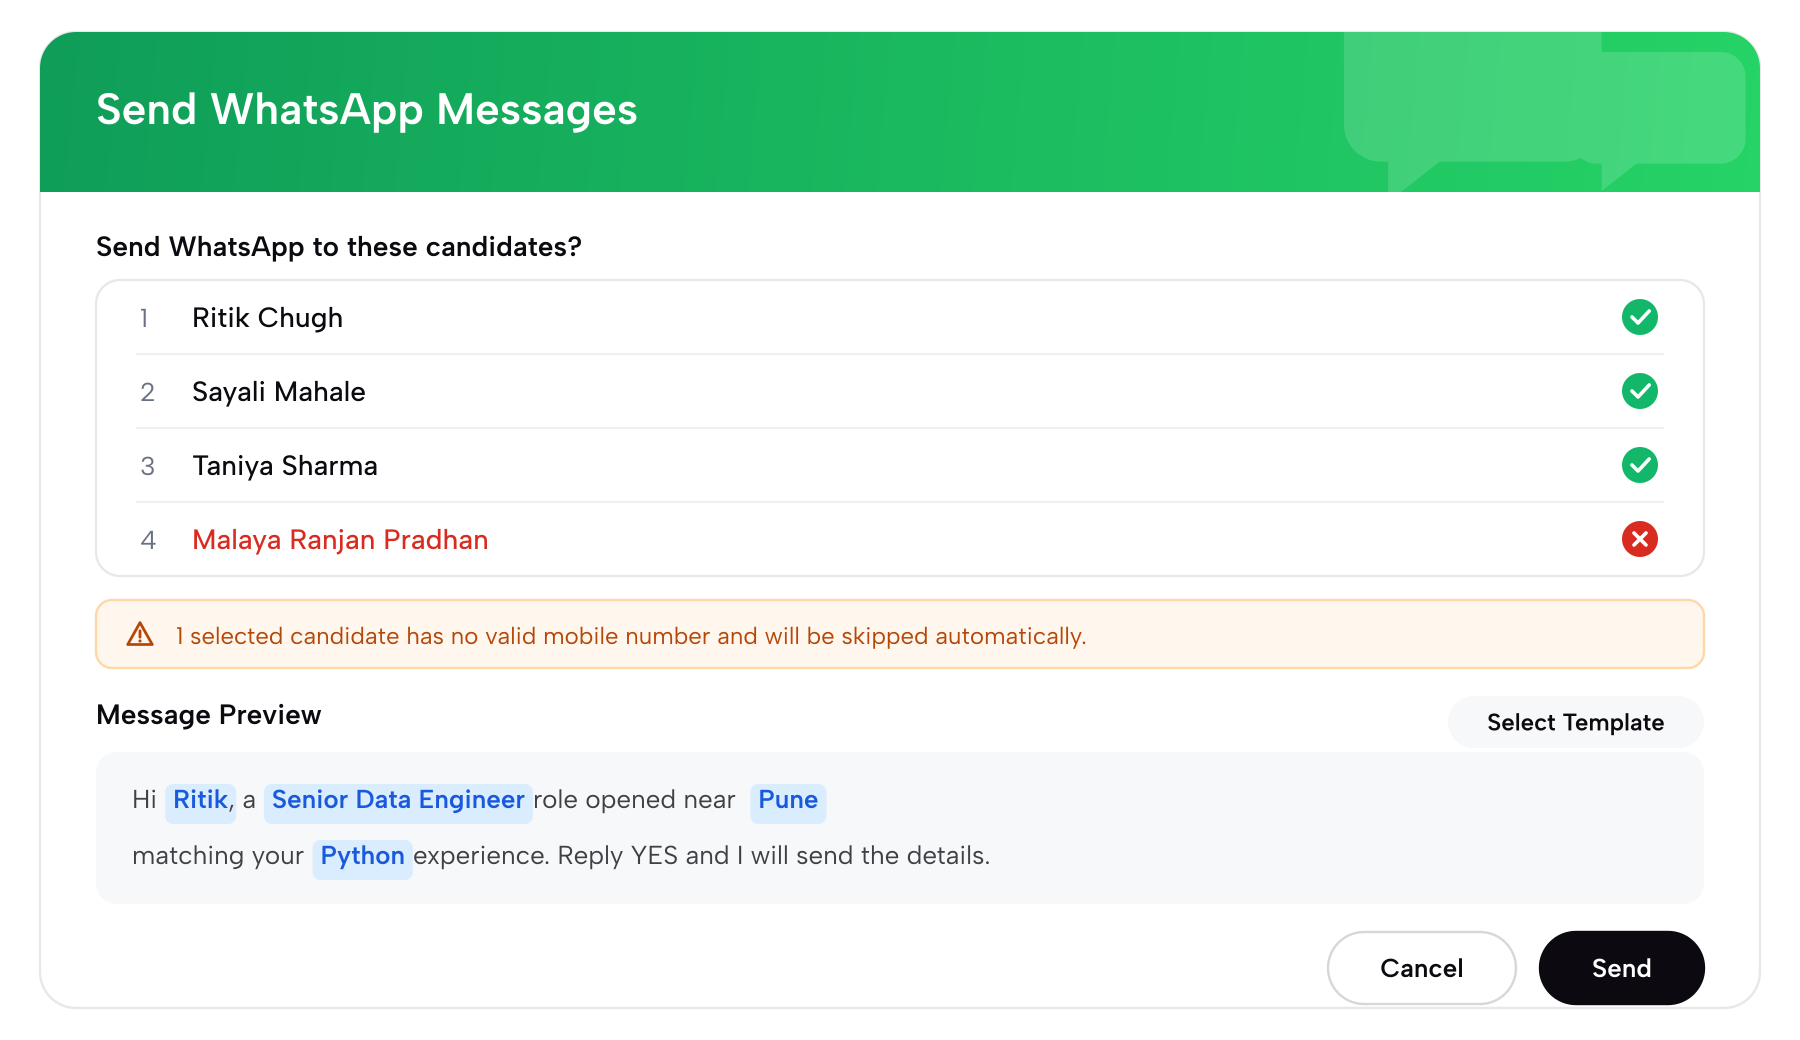
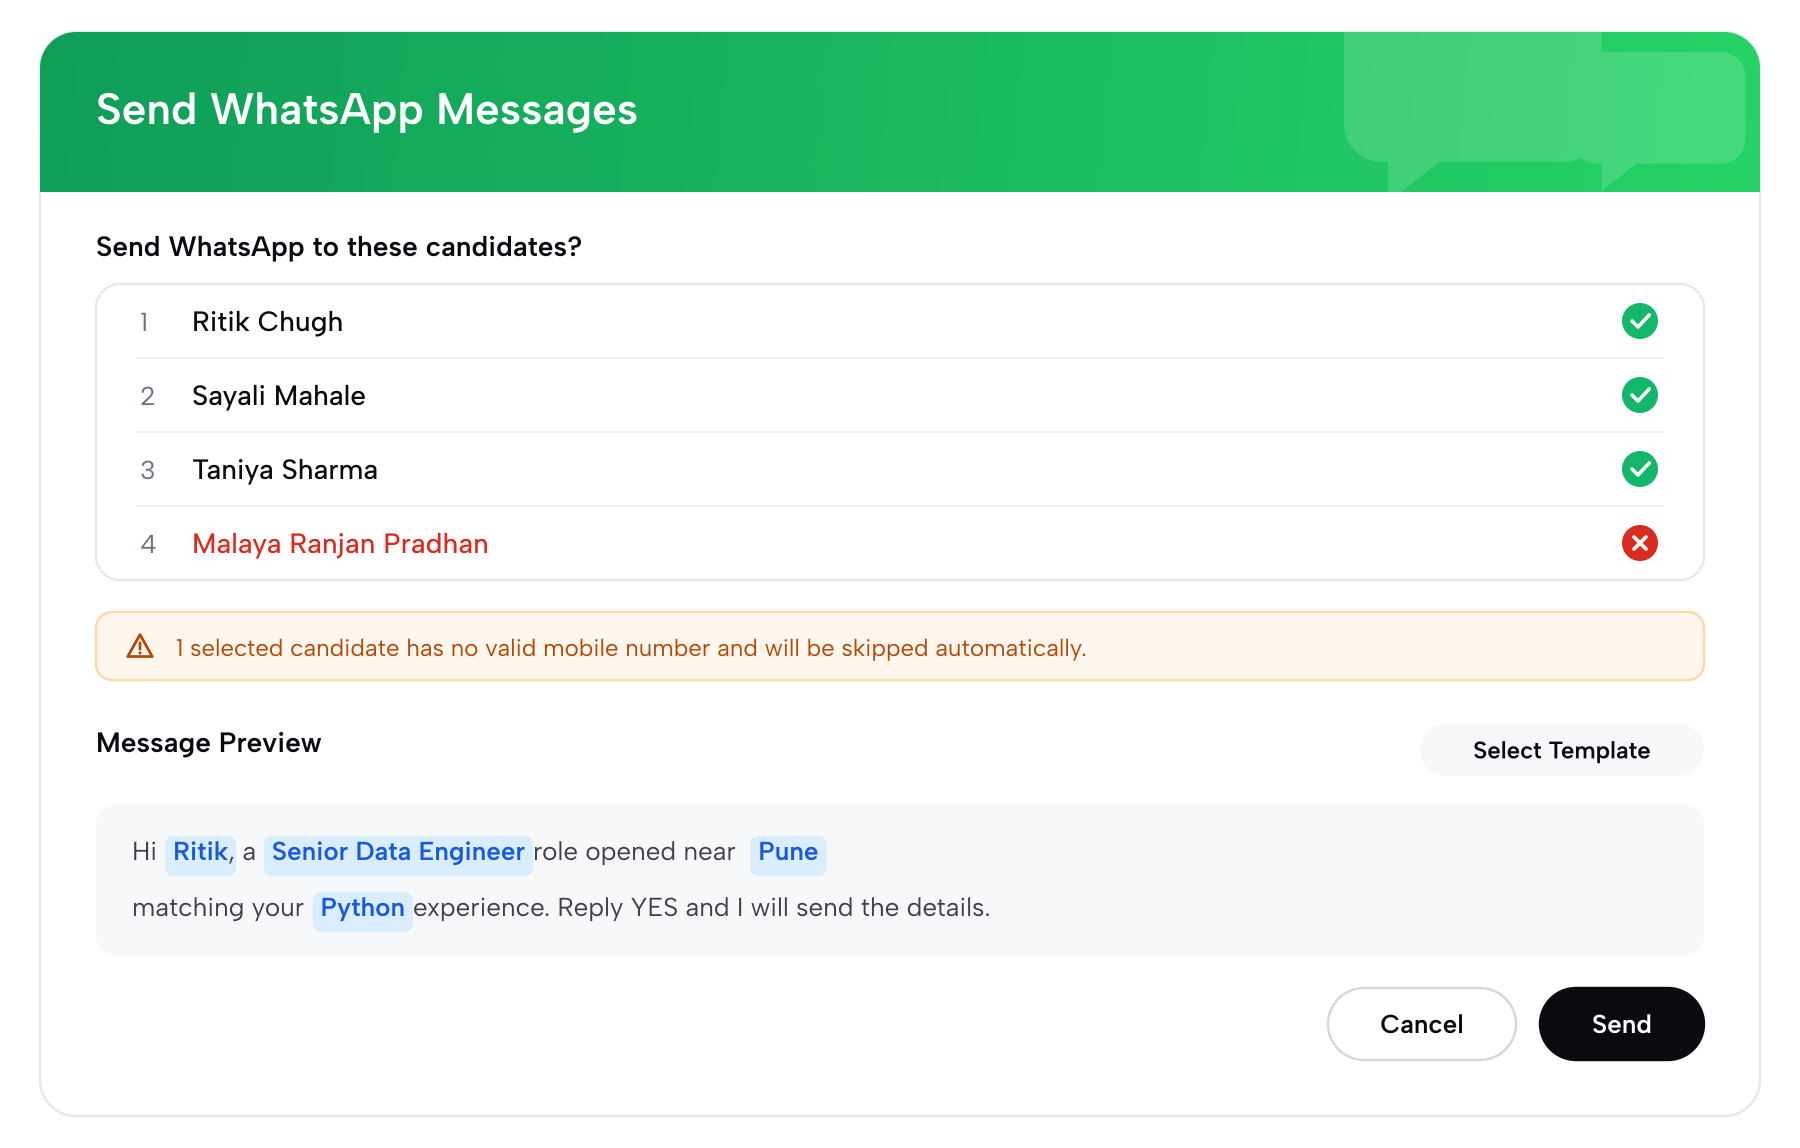
Give the send panel's controls room, and one padding rule
Two things sat 2px off the thing beneath them: the footer buttons against the
card's bottom edge, and the template chip against the message preview. The card
keeps 28px at its sides, so the buttons read as falling out of it, and the chip
read as glued to the box under it.

Measured rather than guessed at. The buttons' own padding was already even —
26.9 either side of "Cancel", 26.8 either side of "Send", which is a tenth of a
pixel apart and not what was wrong. The outer spacing was.

So the panel is re-laid on one rhythm: the button row now clears the card's
bottom edge by the same 28 the card keeps at its sides, and the chip clears the
preview box by 14. The card grows to hold it, 488 to 542, and the frame with it.

The chip was also the odd control out — a hand-set 128 wide, which left it 20.1
either side of its label against the buttons' 26.9. Every control in the panel
is sized from its own label through one constant now, so the three come out at
26.8, 26.9 and 27.1 and cannot drift apart again.

Claude-Session: https://claude.ai/code/session_01NiPpYH7FzHVYjD9oJqcgLh

diff --git a/src/data/creatives.ts b/src/data/creatives.ts
@@ -274,9 +274,9 @@ export const creatives = {
     "src": "/figma/creatives/hv-broadcast.webp",
     "fallback": "/figma/creatives/hv-broadcast.png",
     "width": 1800,
-    "height": 1040,
+    "height": 1148,
     "designWidth": 900,
-    "designHeight": 520,
+    "designHeight": 574,
     "alt": "A WhatsApp send panel: four selected candidates with one unreachable number flagged to be skipped, and the message preview resolved for the first of them"
   },
   "mg-transfer": {
